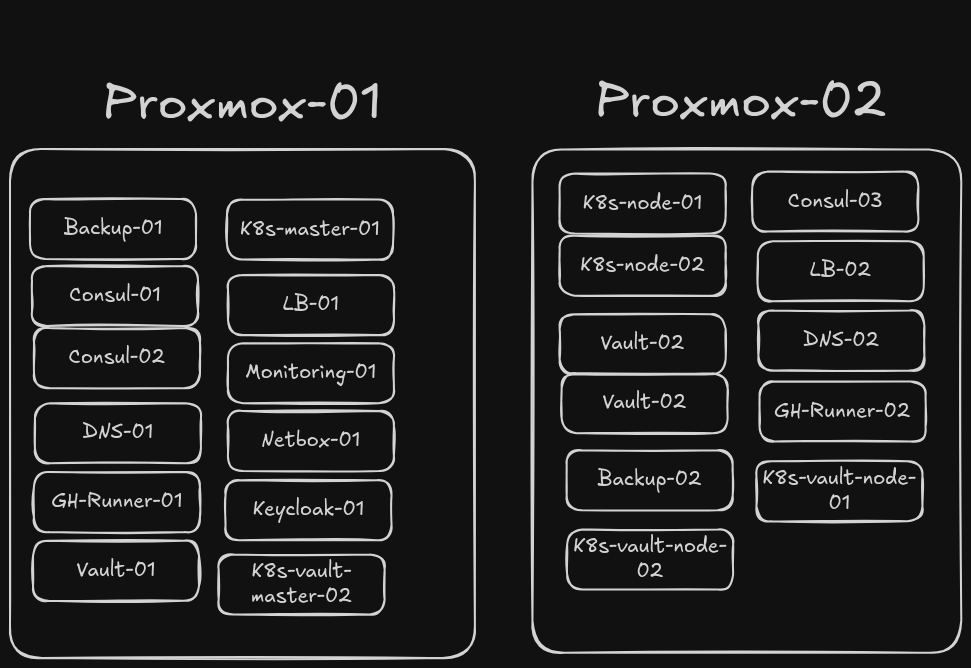
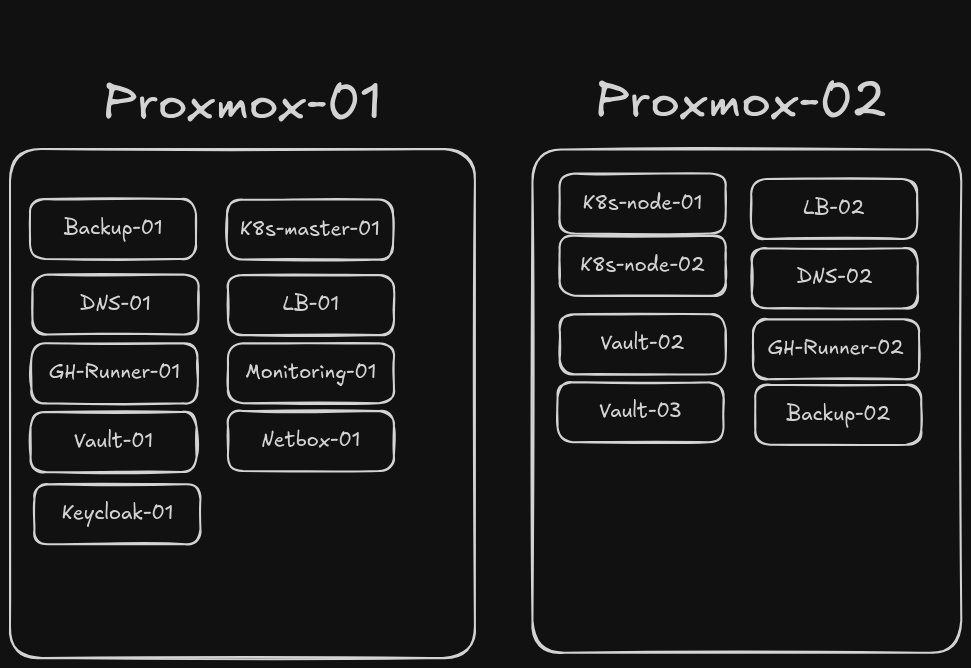
docs(readme): update README

diff --git a/README.md b/README.md
@@ -4,6 +4,20 @@ Das Repository dokumentiert mein selbst gehostetes Homelab basierend auf Proxmox
 Ziel ist es, verschiedene Technologien, Tools und Konzepte durch praktische Erfahrungen besser zu verstehen. 
 Dabei versuche ich, so viel wie möglich zu automatisieren und die gesamte Infrastruktur als Code abzubilden.
 
+## Technologie-Stack
+
+| Bereich | Technologie |
+|---|---|
+| Virtualisierung | Proxmox VE |
+| Netzwerk | OPNsense, VLANs, Firewall-Regeln |
+| Reverse Proxy | HAProxy |
+| Identity Management | Keycloak |
+| Secrets Management | HashiCorp Vault |
+| Zertifikate | Vault Agent |
+| Monitoring | Prometheus, Grafana, Exporter |
+| Automation | Terraform, Ansible |
+| CI/CD | GitHub Actions |
+| Backup | GPG-verschlüsselte Backups |
 
 # 💻 Hardware
 Die eingesetzte Hardware befindet sich in einem selbstgebauten 10" Rack. 
@@ -11,52 +25,76 @@ Die eingesetzte Hardware befindet sich in einem selbstgebauten 10" Rack.
 - Lenovo M720q mit 48 GB RAM, einer 512 GB SSD und einer 256 GB NVMe zum Einsatz (Proxmox). 
 
 # 🖥️ Proxmox
-Die VMs werden mit Terraform erstellt. Dabei werden grundlegende Ressourcen wie CPU, RAM, Netzwerk und Speicher definiert und anschließend in Proxmox bereitgestellt. Die Installation und Konfiguration der Software übernimmt Ansible. Mithilfe von Ansible Playbooks wird die benötigte Software sowie deren Konfiguration konsistent eingerichtet und bereitgestellt.
+Die VMs werden mit Terraform erstellt.
+Dabei werden grundlegende Ressourcen wie CPU, RAM, Netzwerk und Speicher definiert und anschließend in Proxmox bereitgestellt.
+Die Installation und Konfiguration der Software übernimmt Ansible. 
+Mithilfe von Ansible Playbooks wird die benötigte Software sowie deren Konfiguration konsistent eingerichtet und bereitgestellt.
 
 ![alt text](./images/proxmox.png "Proxmox")
 
-## VM Consul und Vault Backup
+## VM Vault und Netbox Backup
 
 ![alt text](./images/backup.png "Backup")
 
+# 🔀 OPNsense
+OPNsense bildet das zentrale Gateway der Homelab-Infrastruktur und übernimmt das Routing,
+die Firewall sowie die Segmentierung des Netzwerks. 
+Ziel ist eine klare Trennung der einzelnen Infrastrukturkomponenten,
+sodass Dienste nur über explizit definierte Firewall-Regeln miteinander kommunizieren können.
+
+Die Umgebung ist in mehrere VLANs unterteilt,
+die jeweils einem bestimmten Verantwortungsbereich zugeordnet sind:
+
+- **Core:** Zentrale Infrastruktur wie DNS, Netbox, Backup, GH-Runner, Loadbalancer und Monitoring
+- **Identity:** Authentifizierungsdienste wie Keycloak
+- **Secrets:** Beinhaltet Vault als zentrale Instanz für Secret-Management, Zertifikatsverwaltung und zukünftige PKI-Funktionalitäten.
+- **Redstone:** User Services z.B. auf Kubernetes
+
+Das Routing zwischen den einzelnen VLANs erfolgt ausschließlich über OPNsense.
+Standardmäßig ist der Verkehr zwischen den Sicherheitszonen untersagt und wird nur dort freigegeben, wo eine Kommunikation technisch erforderlich ist.
+
+![alt text](./images/opnsense.png "Opnsense")
+
 # 🛳️ Kubernetes
-Das laufende Kubernetes Cluster soll, soweit möglich, vollständig mittels GitOps ausgestattet und konfiguriert werden. Geplant ist, interne Services wie Prometheus und Grafana mit FluxCD zu deployen und zu verwalten, während eigene Apps und Services über ArgoCD bereitgestellt und gemanagt werden. Ziel ist es, anhand praktischer Beispiele ein besseres Verständnis für beide Systeme zu entwickeln.
+Das laufende Kubernetes Cluster ist, vollständig mit GitOps ausgestattet und konfiguriert.
+Interne Services wie Prometheus und Grafana werden mit FluxCD  deployed und verwaltet,
+während eigene Apps und Services über ArgoCD bereitgestellt und gemanagt werden.
+Ziel ist es, anhand praktischer Beispiele ein besseres Verständnis für beide Systeme zu entwickeln.
 
 ![alt text](./images/k8s.png "Kubernetes")
 
-## ⛵ ArgoCD
-ArgoCD wird verwendet um Anwendungen automatisch aus der Repository auf dem Kubernetes zu deployen.
+# 🚀 Automation & CI/CD
 
-# 🚀 Pipeline
+Die Infrastruktur wird über eine automatisierte CI/CD Pipeline verwaltet.
+Änderungen werden erkannt, validiert und abhängig vom betroffenen Bereich durch Terraform, Ansible oder Docker-Workflows verarbeitet.
 
-Die Pipeline wird dafür genutzt das, sofern möglich, alle deployments automatisiert ausgeführt werden.
-Dafür existieren speziell vorbereitete Docker-Images, die jeweils in den einzelnen Schritten genutzt werden.  
+| Technologie | Aufgabe | Auslöser |
+|---|---|---|
+| GitHub Actions | Orchestrierung der CI/CD Pipeline | Änderungen im Repository |
+| Docker | Erstellung und Veröffentlichung eigener Images | Änderungen an Dockerfiles |
+| Terraform | Provisionierung und Anpassung virtueller Infrastruktur | Änderungen an Terraform-Konfigurationen |
+| Ansible | Konfiguration und Administration der Systeme | Änderungen an Playbooks oder Variablen |
 
-Die Pipeline prüft, ob sich in den definierten Pfaden Änderungen ergeben haben. Werden Änderungen erkannt, erscheinen diese in der Übersicht.
+## Pipeline Prinzipien
 
-## 🐳 Docker
+| Bereich | Umsetzung |
+|---|---|
+| Deployment | Änderungen werden automatisch erkannt und den passenden Workflows zugeordnet |
+| Terraform | Änderungen werden zuerst per Plan überprüft |
+| Ansible | Änderungen werden vor der Ausführung validiert |
+| Produktionseingriffe | Ausführung von Änderungen nur nach Merge in den `main` Branch |
+| Artefakte | Logs und Plan-Ausgaben werden verschlüsselt gespeichert |
 
-- Änderungen an den Dockerfiles führen automatisch zum Neubau der Images.  
-- Die neuen Images werden anschließend in das Registry/Hub gepusht.  
+## Deployment-Struktur
 
-## ⚙️ Ansible
+Die Infrastruktur ist in verschiedene Bereiche aufgeteilt, welche unabhängig voneinander verarbeitet werden können.
 
-- Änderungen in den Ansible-Dateien (z. B. Host-/Group-Vars) führen zur Ausführung der betroffenen Playbooks.  
-- Die Zuordnung erfolgt über die Datei `playbook_mapping.yml` im Ansible-Ordner.  
-- **Reihenfolge:** Das DNS-Playbook wird immer zuerst ausgeführt, damit die VM erreichbar ist.  
-
-### Wichtig
-- Playbooks werden **nur beim Merge auf den `main`-Branch** ohne `--check` ausgeführt.  
-- Logs werden verschlüsselt als Artifact gespeichert.  
-
-## 🌍 Terraform
-
-- Änderungen in den Terraform-Konfigurationen führen zur Erstellung oder Anpassung der betroffenen VMs.  
-- Vorab wird eine Übersicht erstellt, in der sichtbar ist, ob Ressourcen hinzugefügt, geändert oder entfernt werden.  
-- Der Plan-Output wird – wie bei Ansible – verschlüsselt als Artifact hochgeladen.  
-
-### Wichtig
-- `terraform apply` wird **nur beim Merge auf den `main`-Branch** ausgeführt.  
+| Bereich | Beispiele |
+|---|---|
+| Core | DNS, Netbox, Backup, ... |
+| Identity | Keycloak |
+| Secrets | Vault |
+| Redstone | Kubernetes |
 
 # 🔧 Services
 
@@ -64,41 +102,44 @@ Aktuell wird eine Kombination aus virtuellen Maschinen und Kubernetes-Services b
 Die Umgebunj wird kontinuierlich weiterentwickelt und angepasst.
 
 ## Virtuelle Maschinen (VMs)
-- ~~3× **Consul**, Terraform State für die Pipeline~~ aktuell nicht aktiv
-- 2× **DNS**
-- 2× **Github Runner**, für die Pipeline
-- ~~3× **Vault**, die derzeit für Kubernetes-Secrets verwendet werden~~ aktuell auf kubernetes
-- 2× **Loadbalancer**, der Anfragen z.B. an die Vault-Instanzen weiterleitet  
-- 3× **K8s** (1 Master und 2 Nodes)  
-- 1× **Netbox**, für die Dokumentation
-- 1× **Monitoring**, für Prometheus, Grafana
-- 1× **Keycloak**, für Grafana und ArgoCD 
-- 2× **Backup**, für S3 storage und Terraform State
-- 3× **K8s-vault** (1 Master und 2 Nodes)  
+| Anzahl | Komponente | Zweck |
+|---|---|---|
+| 2× | DNS Server | Bereitstellung der internen Namensauflösung |
+| 2× | Load Balancer | Zentrale Eingangspunkte für interne Services und Weiterleitung an Backend-Systeme |
+| 3× | Vault Server | Zentrales Secret Management und Verwaltung von TLS-Zertifikaten |
+| 3× | Kubernetes Nodes | Container-Plattform für Workloads (1 Control Plane, 2 Worker Nodes) |
+| 1× | Monitoring Server | Prometheus und Grafana für Metriken und Visualisierung |
+| 1× | Keycloak | Zentrale Authentifizierung über OIDC (aktuell für Grafana) |
+| 1× | NetBox | Dokumentation der Infrastruktur und Netzwerkressourcen |
+| 2× | Backup Server | Backup-Ziel für S3-Daten und Terraform State |
+| 2× | GitHub Runner | Ausführung der CI/CD Pipelines |
+
+### Historische VMs
+
+| Komponente | Status |
+|---|---|
+| Consul Cluster (3 Nodes) | Nicht mehr aktiv, ursprünglich als Terraform State Backend verwendet |
 
 ## Kubernetes-Services
-### k8s-01
-- **FluxCD**  
-- **External Secrets**  
-- **Longhorn**  
-- **Cert-Manager**  
-- **CNPG** 
-- **Github-Runner-Scale-Set**
-- **Redis**
-- **ArgoCD**
-
-### K8s-Vault-01
-- **FluxCD**  
-- **Longhorn**  
-- **Vault**  
+### Redstone k8s-01
+| Bereich                | Technologie               |
+| ---------------------- | ------------------------- |
+| GitOps                 | Flux                      |
+| Application Deployment | ArgoCD                    |
+| Ingress                | NGINX Ingress Controller  |
+| TLS Management         | Cert-Manager              |
+| Secrets                | External Secrets Operator |
+| Storage                | Longhorn                  |
+| Datenbanken            | PostgreSQL, Redis         |
+| CI/CD                  | Github Runner             |
 
 # 🤖 Ansible
 Für die VMs im Homelab wurden und werden eigene Ansible Rollen entwickelt. 
 Hierzu zählt z.B. eine `General` Rolle die VMs mit den Basic Settings ausstattet (ssh, firewall, hostname, ... ) oder 
 eine `HAProxy` Rolle die es möglich macht mittels url auf verschiedene Backends zu routen.
-Jede VM sollte die `General`, `Consul`, `Promtail`, `Node_Exporter` Rolle im Playbook haben damit die Grundeinstellung gesetzt ist.
+Jede VM sollte die `General`, `Node_Exporter` Rolle im Playbook haben damit die Grundeinstellung gesetzt ist.
 
-## Rollen
+## Eigene Rollen
 - General
 - Kubernetes
 - HAProxy
@@ -115,7 +156,6 @@ In Prometheus werden VMs automatisch über Consul und Service Discovery aufgenom
 ## Exporter
 - `Node Exporter` auf allen VMs
 - `Bind Exporter` auf DNS VMs
-- `Consul Exporter` auf Consul VMs
   
 # 🛠️ Configs
 ## Ansible